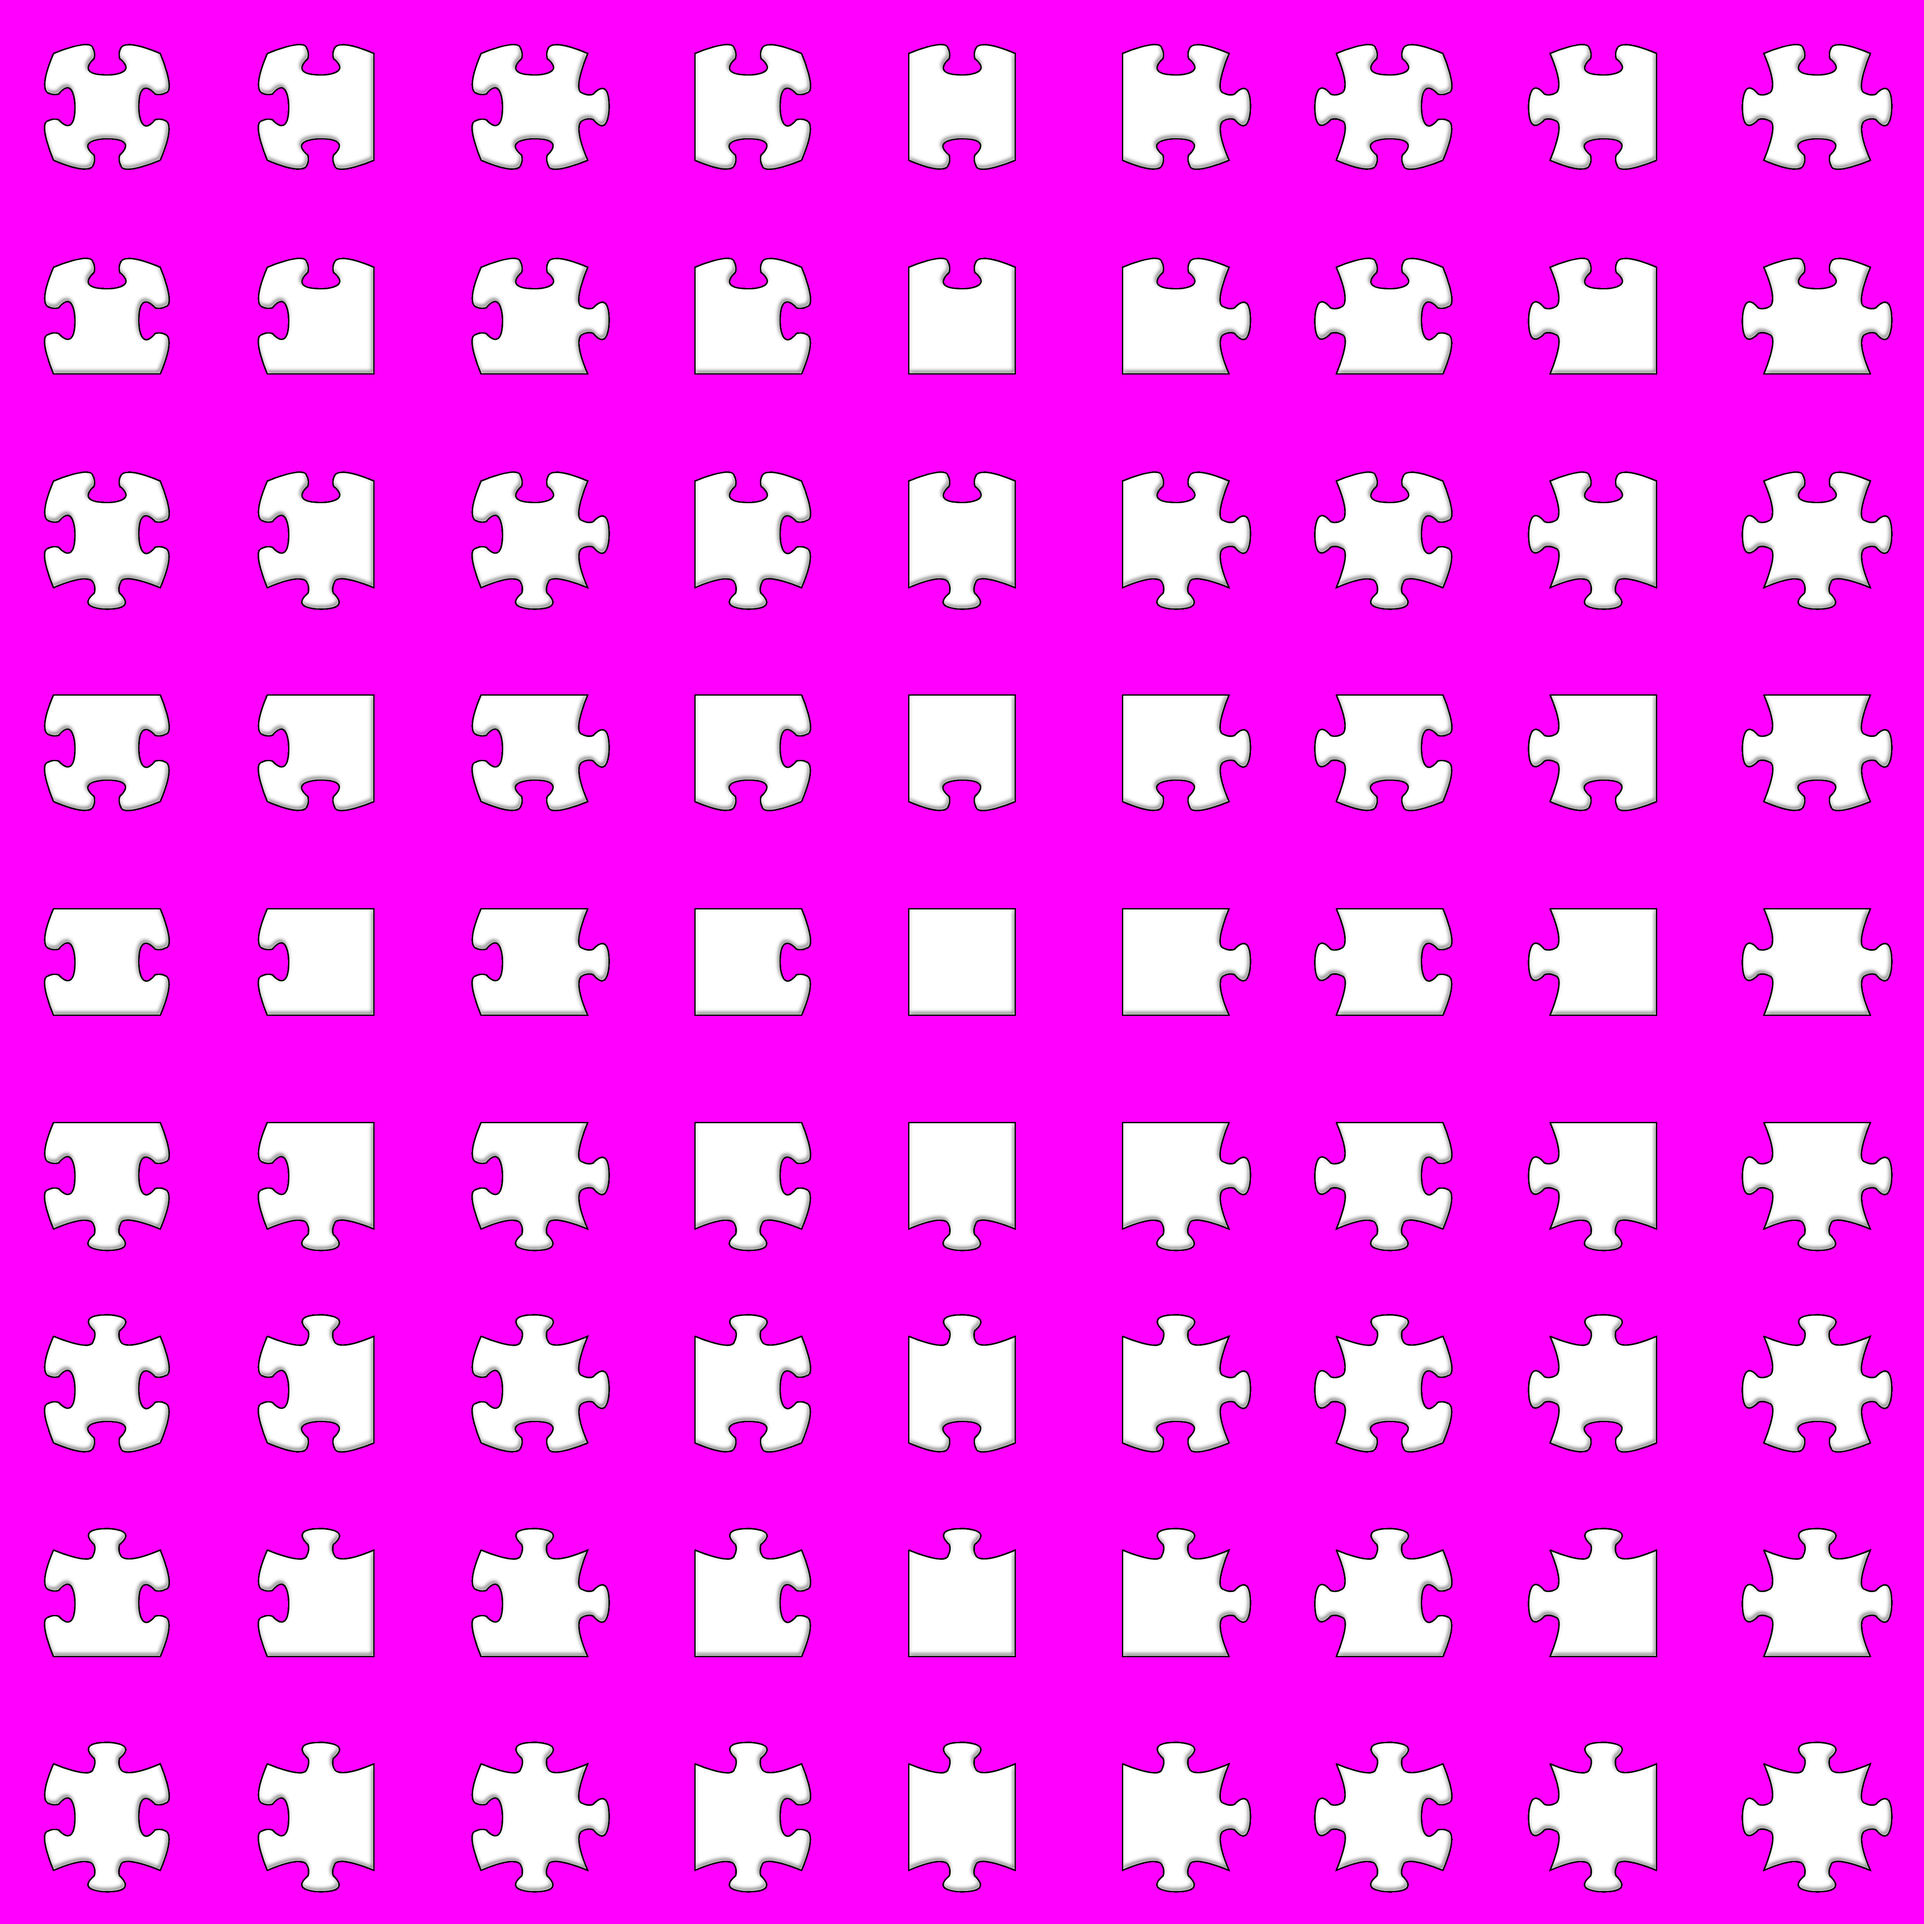
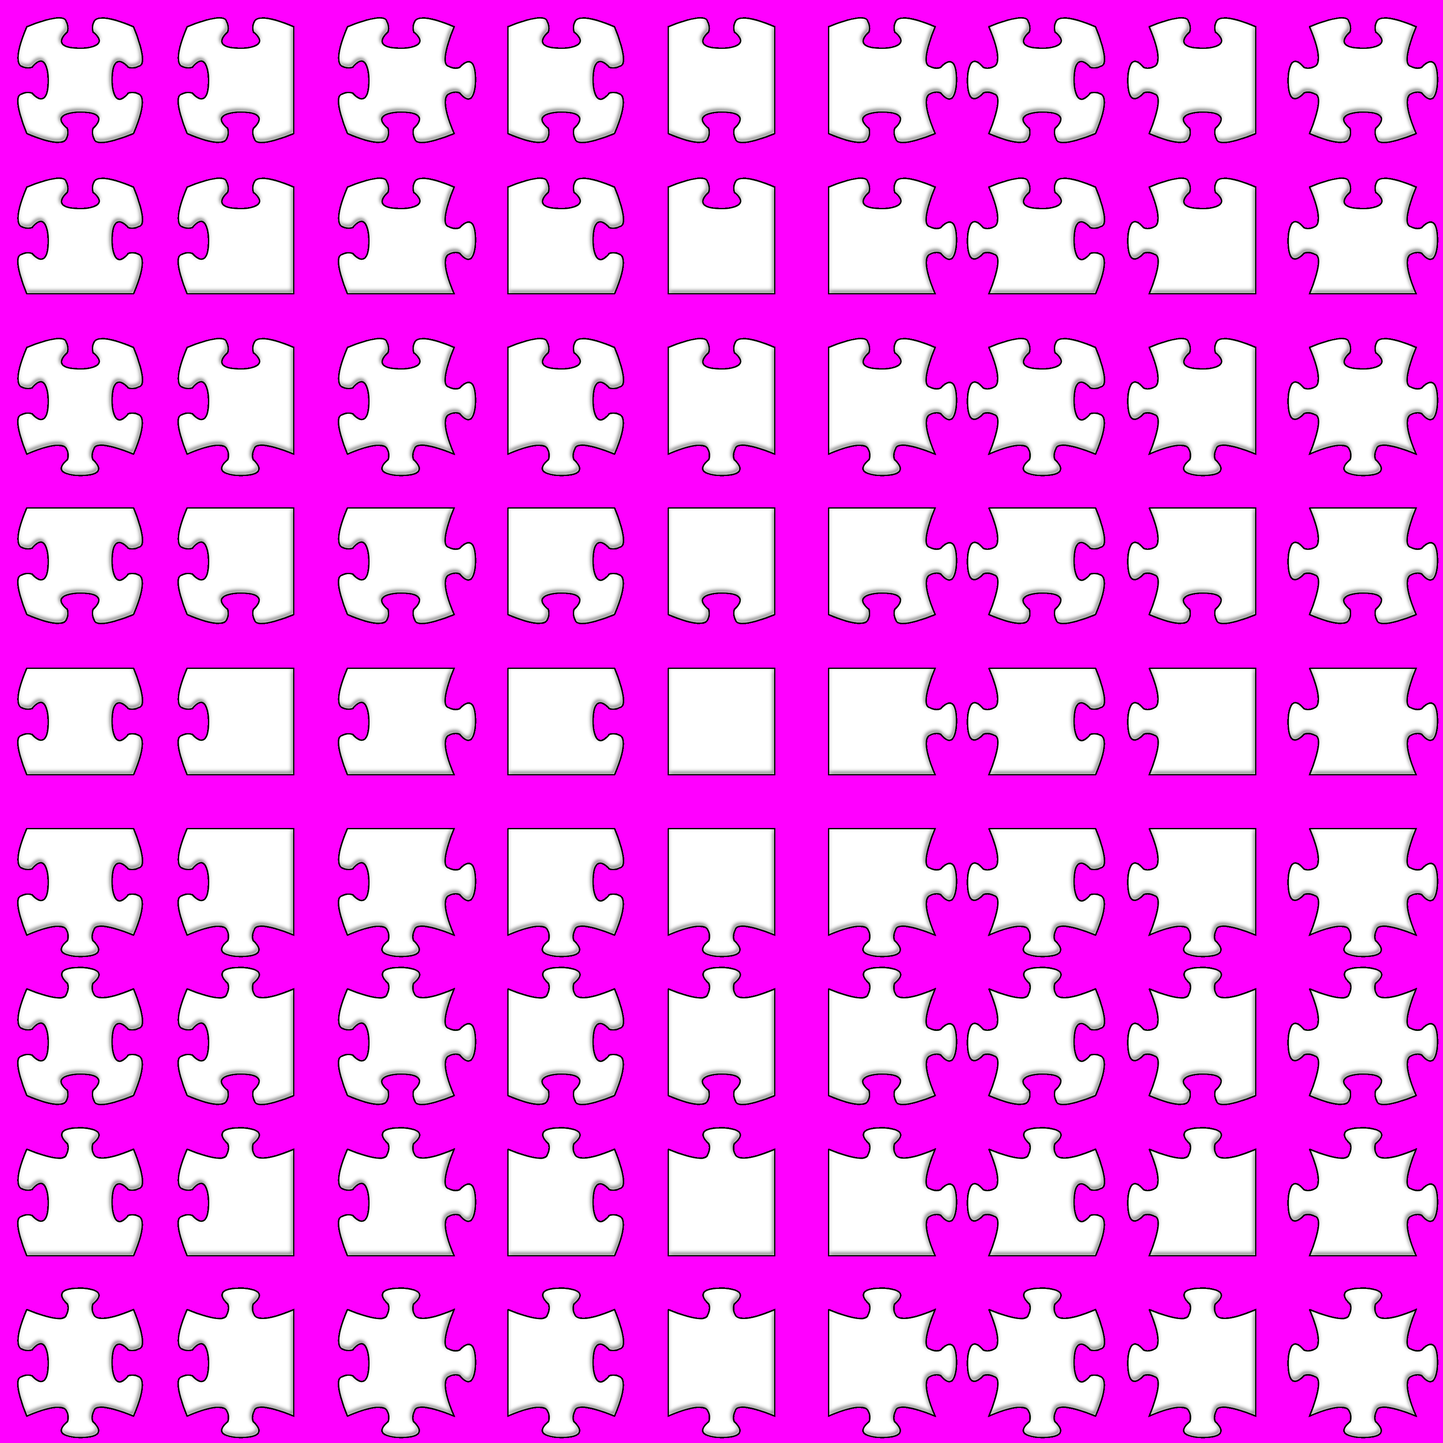
smaller stencils

Changed region(s): [[0.0, 0.0, 1.0, 1.0]]

diff --git a/frontend/src/webgl/PiecesShaderWrapper.ts b/frontend/src/webgl/PiecesShaderWrapper.ts
@@ -6,7 +6,7 @@ import { EncodedPieceShape, GameId } from '../Types'
 import { Shader } from './Shader'
 import piecesFragment from './shaders/piecesFragment'
 import piecesVertex from './shaders/piecesVertex'
-import { SpriteBatch, SpriteInfo } from './SpriteBatch'
+import { SpriteBatch, PieceSpriteInfo } from './SpriteBatch'
 import { TextureAtlas } from './TextureAtlas'
 import m4 from './m4'
 
@@ -44,8 +44,7 @@ export class PiecesShaderWrapper {
     const info = GameCommon.getPuzzle(this.gameId).info
     this.shader.bind()
     this.shader.setUniform('puzzle_image_size', [info.width, info.height])
-    const spriteSize = 128
-    const sprites: SpriteInfo[] = []
+    const sprites: PieceSpriteInfo[] = []
     const maxZ = GameCommon.getMaxZIndex(this.gameId)
     for (const piece of GameCommon.getEncodedPieces(this.gameId)) {
       const finalPos = GameCommon.getSrcPosByPieceIdx(this.gameId, piece[EncodedPieceIdx.IDX])
@@ -53,14 +52,17 @@ export class PiecesShaderWrapper {
         x: piece[EncodedPieceIdx.POS_X],
         y: piece[EncodedPieceIdx.POS_Y],
         z: maxZ ? piece[EncodedPieceIdx.Z] / maxZ : 0,
-        t_x: finalPos.x,
-        t_y: finalPos.y,
-        texture: this.pieceTexture(info.shapes, piece),
+        puzzleImageX: finalPos.x,
+        puzzleImageY: finalPos.y,
+        stencilTexture: this.pieceTexture(info.shapes, piece),
         rotation: this.pieceRotation(piece[EncodedPieceIdx.ROTATION]),
         visible: true,
       })
     }
-    this.sprites = new SpriteBatch(this.gl, sprites, spriteSize, this.atlas)
+    //
+    const spriteSize = 128
+    const borderSize = spriteSize / 4
+    this.sprites = new SpriteBatch(this.gl, sprites, spriteSize + borderSize, this.atlas)
     console.timeEnd('rest')
   }
 

diff --git a/frontend/src/webgl/SpriteBatch.ts b/frontend/src/webgl/SpriteBatch.ts
@@ -3,15 +3,15 @@ import { Buffer, Float32, Uint8 } from './Buffer'
 import { TextureAtlas } from './TextureAtlas'
 
 
-export type SpriteInfo = {
-  texture: number
+export type PieceSpriteInfo = {
+  stencilTexture: number
   // world pos
   x: number
   y: number
   z: number
   // texture pos
-  t_x: number
-  t_y: number
+  puzzleImageX: number
+  puzzleImageY: number
   // rotation of piece (0, 1, 2, 3 => standing for 0, 90, 180, 270 degrees)
   rotation: number
   // visibility of piece
@@ -70,7 +70,7 @@ export class SpriteBatch {
 
   constructor(
     gl: WebGL2RenderingContext,
-    sprites: SpriteInfo[],
+    sprites: PieceSpriteInfo[],
     spriteSize: number,
     atlas: TextureAtlas,
   ) {
@@ -79,12 +79,12 @@ export class SpriteBatch {
     this.spriteSize = spriteSize
     this.halfSpriteSize = spriteSize / 2
 
-    const tid = new Uint8Array(sprites.map((s) => atlas.getId(s.texture)!))
+    const tid = new Uint8Array(sprites.map((s) => atlas.getId(s.stencilTexture)!))
     const x = new Float32Array(sprites.map((s) => s.x + this.halfSpriteSize))
     const y = new Float32Array(sprites.map((s) => s.y + this.halfSpriteSize))
     const z = new Float32Array(sprites.map((s) => s.z))
-    const t_x = new Float32Array(sprites.map((s) => s.t_x))
-    const t_y = new Float32Array(sprites.map((s) => s.t_y))
+    const t_x = new Float32Array(sprites.map((s) => s.puzzleImageX))
+    const t_y = new Float32Array(sprites.map((s) => s.puzzleImageY))
     const rotation = new Uint8Array(sprites.map((s) => s.rotation))
     const visible = new Uint8Array(sprites.map((s) => s.visible ? 1 : 0))
 

diff --git a/frontend/src/PuzzleGraphics.ts b/frontend/src/PuzzleGraphics.ts
@@ -325,7 +325,7 @@ async function createWebglStencils(
   graphics: Graphics,
 ): Promise<Record<EncodedPieceShape, ImageBitmap>> {
   const SPRITE_SIZE = 256
-  const SPRITE_DRAW_OFFSET = SPRITE_SIZE / 2
+  const SPRITE_DRAW_OFFSET = SPRITE_SIZE / 4
   const size = SPRITE_SIZE + 2 * SPRITE_DRAW_OFFSET
   const shapes: Record<EncodedPieceShape, ImageBitmap> = {}
   for (let top = -1; top <= 1; top++) {
@@ -366,15 +366,16 @@ async function createWebglStencils(
   // c.style.left = '0'
   // c.style.top = '0'
   // c.style.zIndex = '1000'
-  return shapes
+  // return shapes
 }
 
 async function createWebglStencilsFromPng(
   graphics: Graphics,
   bitmap: ImageBitmap,
 ): Promise<Record<EncodedPieceShape, ImageBitmap>> {
+  // await createWebglStencils(graphics)
   const SPRITE_SIZE = 256
-  const SPRITE_DRAW_OFFSET = SPRITE_SIZE / 2
+  const SPRITE_DRAW_OFFSET = SPRITE_SIZE / 4
   const size = SPRITE_SIZE + 2 * SPRITE_DRAW_OFFSET
   const shapes: Record<EncodedPieceShape, ImageBitmap> = {}
 

diff --git a/frontend/src/webgl/shaders/piecesFragment.ts b/frontend/src/webgl/shaders/piecesFragment.ts
@@ -15,8 +15,7 @@ out vec4 fragColor;
 
 // TODO: replace hardcoded values (build shader with a template string?)
 const float SPRITE_SIZE = 64.0;
-const float PADDING_SIZE = 32.0;
-const float FULL_SIZE = SPRITE_SIZE + 2.0 * PADDING_SIZE;
+const float PADDING_SIZE = SPRITE_SIZE / 4.0;
 const vec2 PIECE_SIZE = vec2(SPRITE_SIZE, SPRITE_SIZE);
 
 vec3 blendLightenDarken(vec3 baseColor, vec4 gradient) {
@@ -55,7 +54,7 @@ vec4 determine_frag_color() {
   vec2 adjustedTexcoord = unrotateTexcoord(v_texcoord);
 
   // Calculate the position in the puzzle image
-  vec2 puzzleCoord = v_puzcoord + v_texcoord * (PIECE_SIZE + 2.0 *PADDING_SIZE) - PADDING_SIZE;
+  vec2 puzzleCoord = v_puzcoord + v_texcoord * (PIECE_SIZE + 2.0 * PADDING_SIZE) - PADDING_SIZE;
   puzzleCoord /= puzzle_image_size; // Normalize to [0, 1] range
 
   // Sample the stencil and puzzle image

diff --git a/frontend/src/webgl/shaders/piecesVertex.ts b/frontend/src/webgl/shaders/piecesVertex.ts
@@ -26,7 +26,7 @@ out vec2 v_puzcoord;
 
 // TODO: replace hardcoded values (build shader with a template string?)
 const float SPRITE_SIZE = 64.0;
-const float PADDING_SIZE = 32.0;
+const float PADDING_SIZE = SPRITE_SIZE / 4.0;
 
 void main() {
     v_tid = tid;

diff --git a/frontend/src/webgl/TextureAtlas.ts b/frontend/src/webgl/TextureAtlas.ts
@@ -39,7 +39,6 @@ export class TextureAtlas {
 
     for (let i = 0; i < images.length; i++) {
       const [src, image] = images[i]
-      // prettier-ignore
       gl.texSubImage3D(
         gl.TEXTURE_2D_ARRAY, 0,
         0, 0, i,
